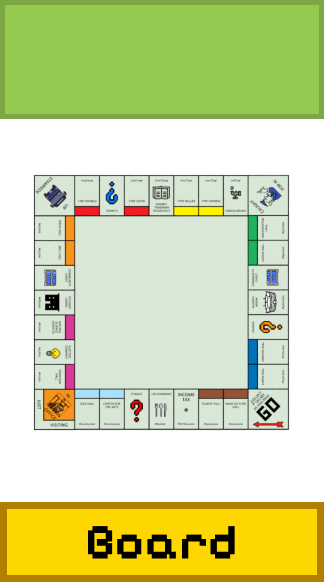
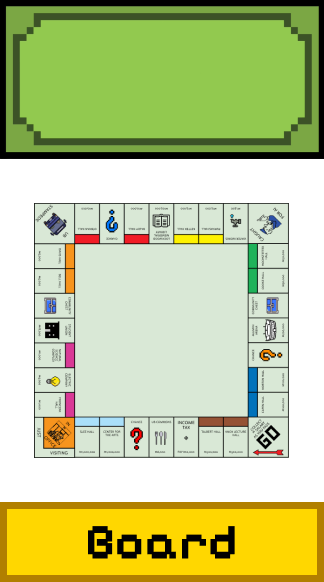
Connected EveryPage

diff --git a/board.py b/board.py
@@ -7,11 +7,24 @@ def clear_screen(screen):
     pygame.display.flip()
     gc.collect()
 
-def button_clicked(screen,event_pos):
-    print("board clicking")
-    return "buffs"
+main_background = pygame.image.load("./images/board/main_page.png")
+right_button = pygame.image.load('./images/right_arrow.png')
+left_button = pygame.image.load('./images/left_arrow.png')
+lb_rect = pygame.Rect((34,519),left_button.get_size())
+rb_rect = pygame.Rect((259,519),right_button.get_size())
 
 def render_board(screen):
-    print("rendering board")
+    screen.blit(main_background, (0,0))
+    screen.blit(right_button, rb_rect)
+    screen.blit(left_button, lb_rect)
+
+
+    def button_clicked(screen,event_pos):
+        if(lb_rect.collidepoint(event_pos)):
+            return "profile"
+        if(rb_rect.collidepoint(event_pos)):
+            return "buffs"
+        return None
+
     return button_clicked
 

diff --git a/main.py b/main.py
@@ -7,6 +7,7 @@ from buffs import render_buff
 from board import render_board
 from boosts import render_boosts
 from leaderboard import render_leaderboard
+from profile import render_profile
 
 pygame.init()
 SCREEN_W, SCREEN_H = 324, 582
@@ -19,7 +20,7 @@ clock = pygame.time.Clock()
 running = True
 
 player = Player()
-button_render = render_buff(screen) #default render
+button_render = render_board(screen) #default render
 
 def nav_bar_manager(page):
     global button_render
@@ -32,6 +33,8 @@ def nav_bar_manager(page):
         button_render = render_boosts(screen)
     elif(page == "leaderboard"):
         button_render = render_leaderboard(screen)
+    elif(page == "profile"):
+        button_render = render_profile(screen)
 
 while running:
     for event in pygame.event.get():

diff --git a/profile.py b/profile.py
@@ -1,0 +1,25 @@
+import pygame
+import gc
+import pygame_gui
+
+def clear_screen(screen):
+    screen.fill((255, 255, 255))
+    pygame.display.flip()
+    gc.collect()
+
+main_background = pygame.image.load("./images/profile/main_page.png")
+right_button = pygame.image.load('./images/last_right_arrow.png')
+rb_rect = pygame.Rect((235,509),right_button.get_size())
+
+def render_profile(screen):
+    screen.blit(main_background, (0,0))
+    screen.blit(right_button, rb_rect)
+
+
+    def button_clicked(screen,event_pos):
+        if(rb_rect.collidepoint(event_pos)):
+            return "board"
+        return None
+
+    return button_clicked
+
